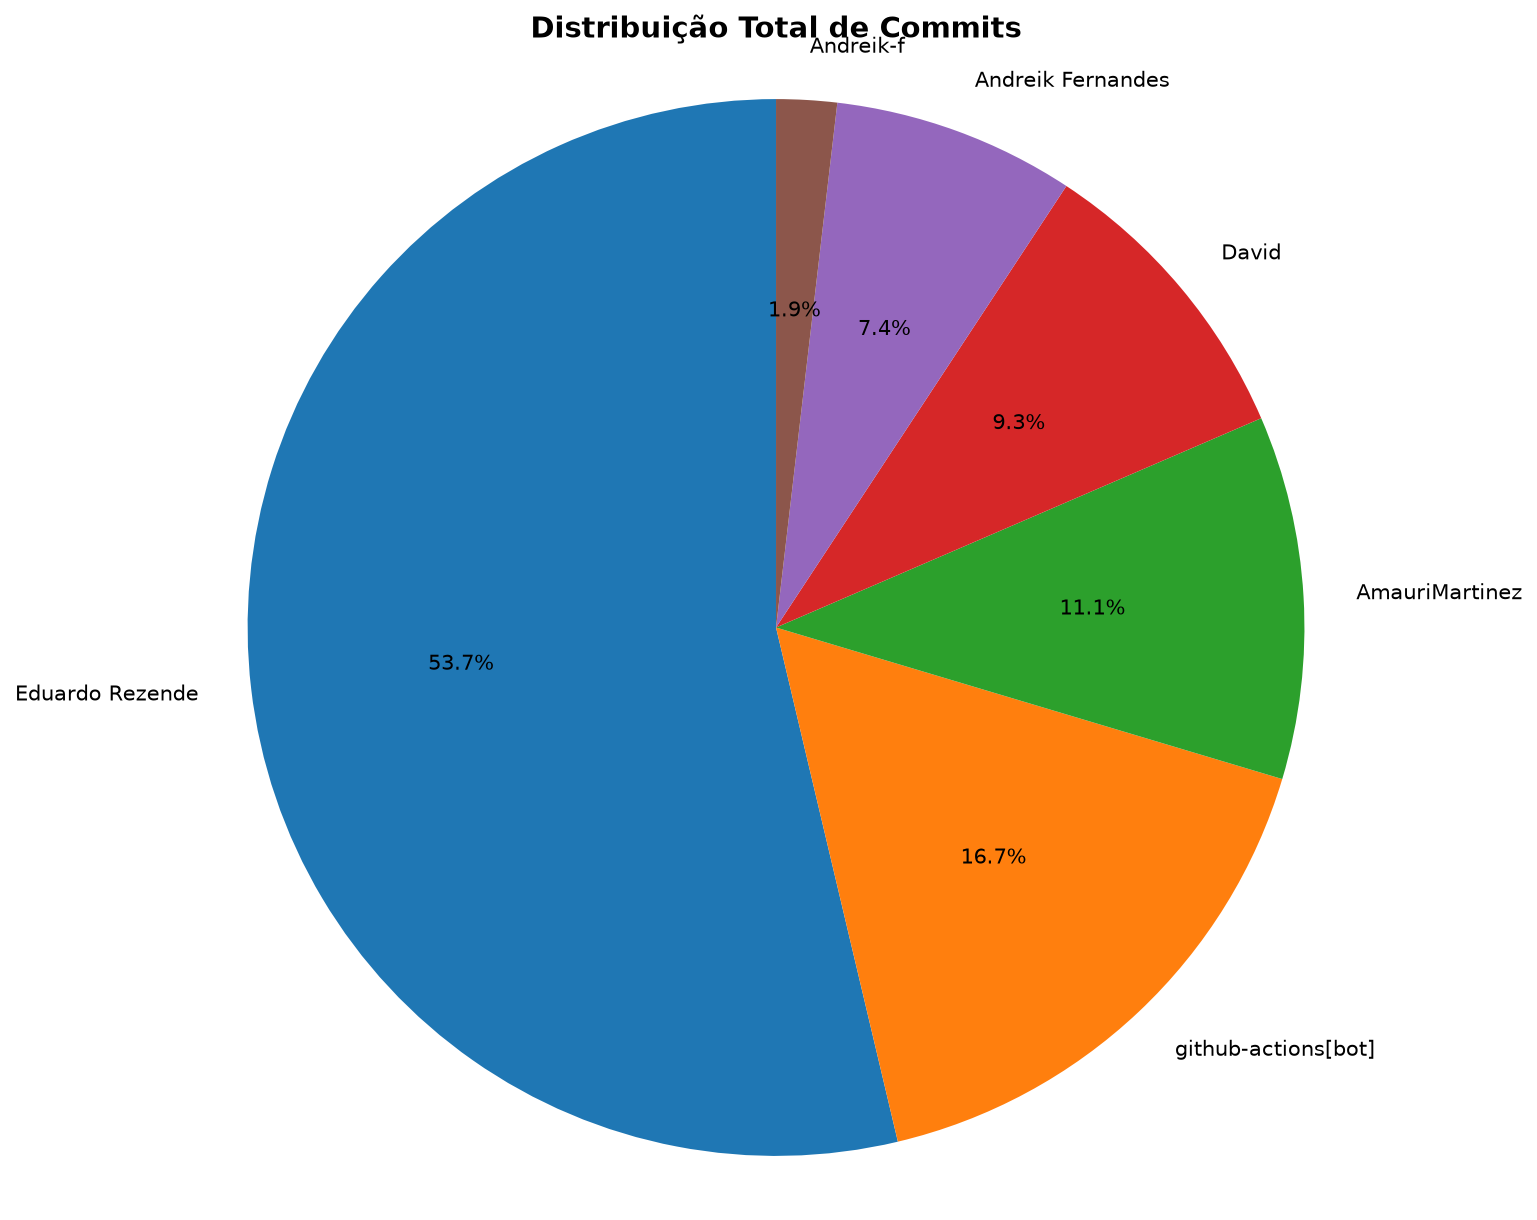
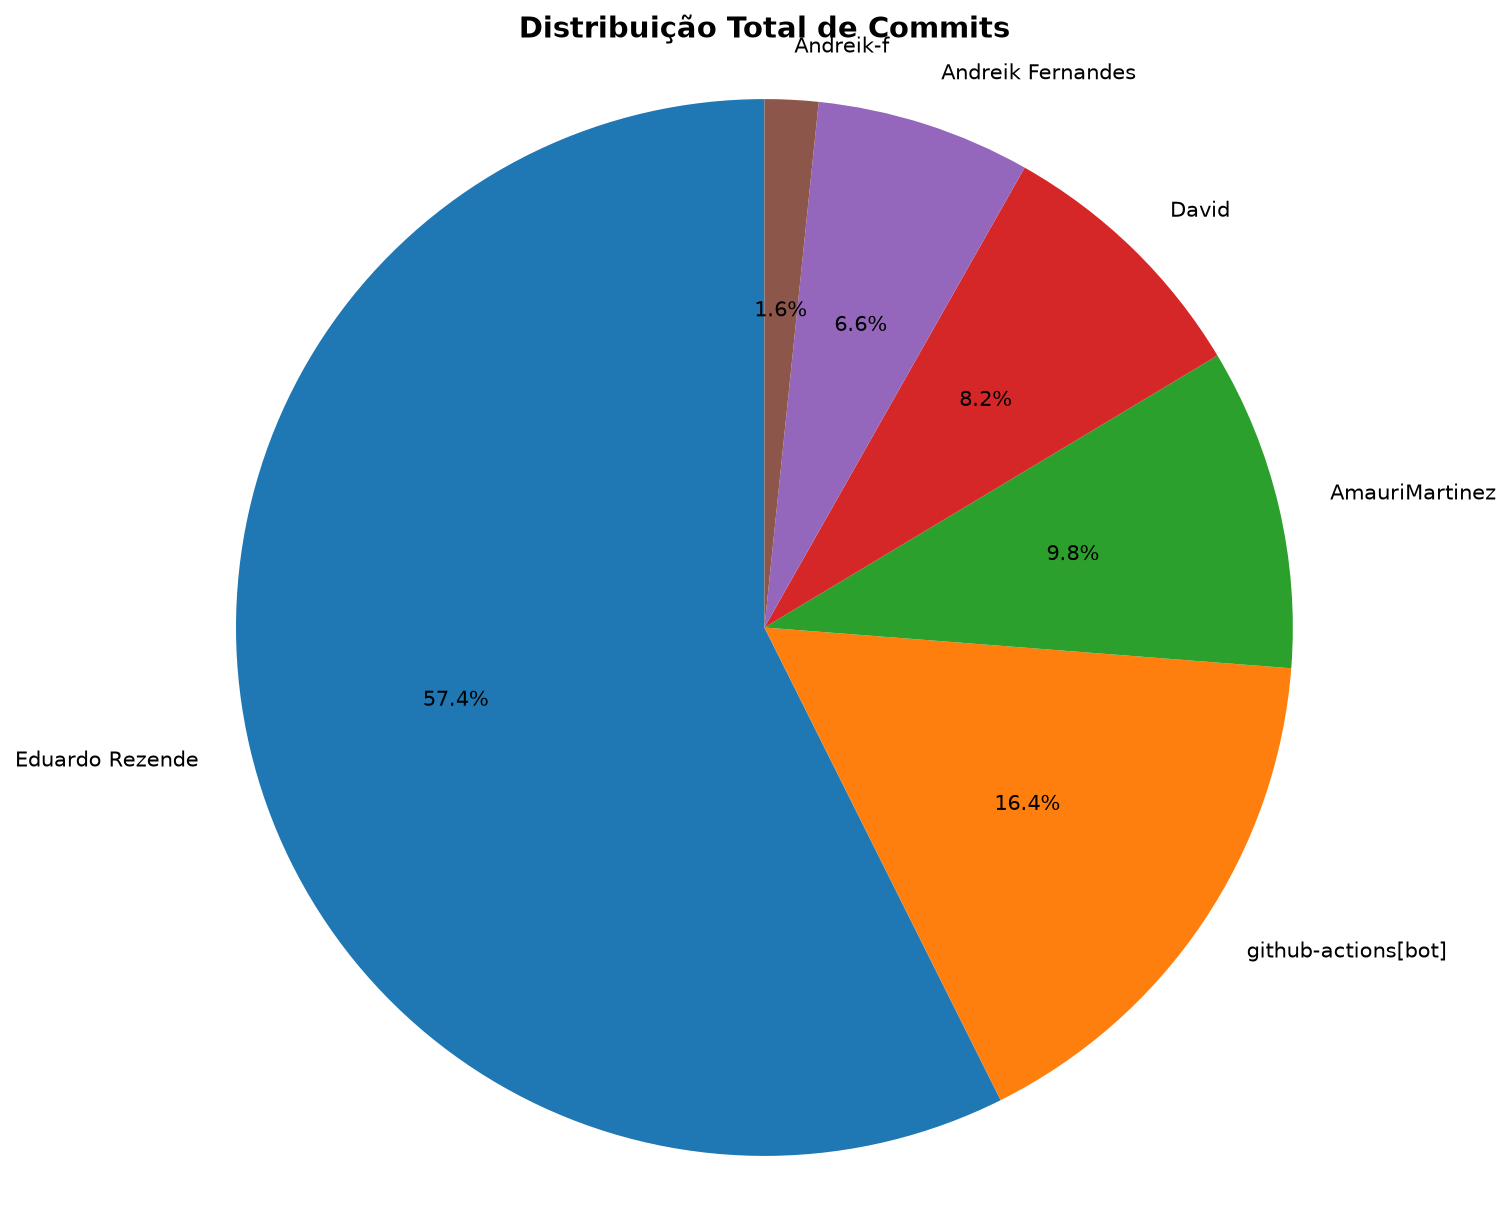
📊 Atualizar relatório de contribuições [skip ci]

diff --git a/documentos/CONTRIBUTION_REPORT.md b/documentos/CONTRIBUTION_REPORT.md
@@ -1,6 +1,6 @@
 # 📊 Relatório de Contribuições do Projeto
 
-**Última atualização:** 09/10/2026 20:25
+**Última atualização:** 10/10/2026 01:12
 
 ---
 
@@ -12,21 +12,21 @@
 | Andreik Fernandes   |         4 |       958 |         4 |          7 |              0 |               0 |
 | Andreik-f           |         1 |        30 |         0 |          2 |              0 |               0 |
 | David               |         5 |       810 |         2 |         24 |              2 |               1 |
-| Eduardo Rezende     |        29 |     87495 |     41888 |        380 |              4 |               1 |
-| github-actions[bot] |         9 |        99 |        45 |          3 |              9 |               1 |
+| Eduardo Rezende     |        35 |     87507 |     41900 |        380 |              4 |               1 |
+| github-actions[bot] |        10 |       108 |        52 |          3 |             10 |               1 |
 
 
 ## 📅 Contribuições Semanais (Todo o Semestre)
 
-**2026-10-02**: Eduardo Rezende: 10, github-actions[bot]: 1
+**2026-10-03**: Eduardo Rezende: 15, github-actions[bot]: 2
 
-**2026-09-25**: Eduardo Rezende: 7, github-actions[bot]: 6
+**2026-09-26**: Eduardo Rezende: 8, github-actions[bot]: 6
 
-**2026-09-18**: AmauriMartinez: 2, Andreik Fernandes: 4, David: 1, Eduardo Rezende: 7, github-actions[bot]: 1
+**2026-09-19**: AmauriMartinez: 2, Andreik Fernandes: 4, Eduardo Rezende: 7, github-actions[bot]: 1
 
-**2026-09-11**: AmauriMartinez: 4, Andreik-f: 1, David: 1, Eduardo Rezende: 5, github-actions[bot]: 1
+**2026-09-12**: AmauriMartinez: 4, Andreik-f: 1, David: 2, Eduardo Rezende: 5, github-actions[bot]: 1
 
-**2026-09-04**: David: 3
+**2026-09-05**: David: 3
 
 
 
